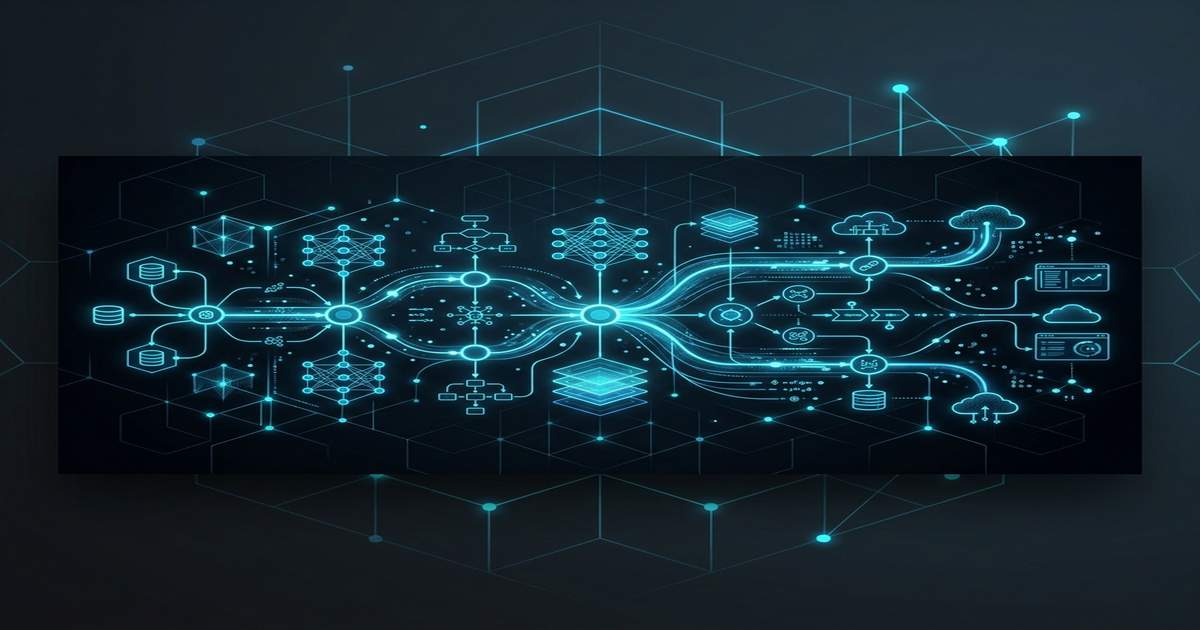
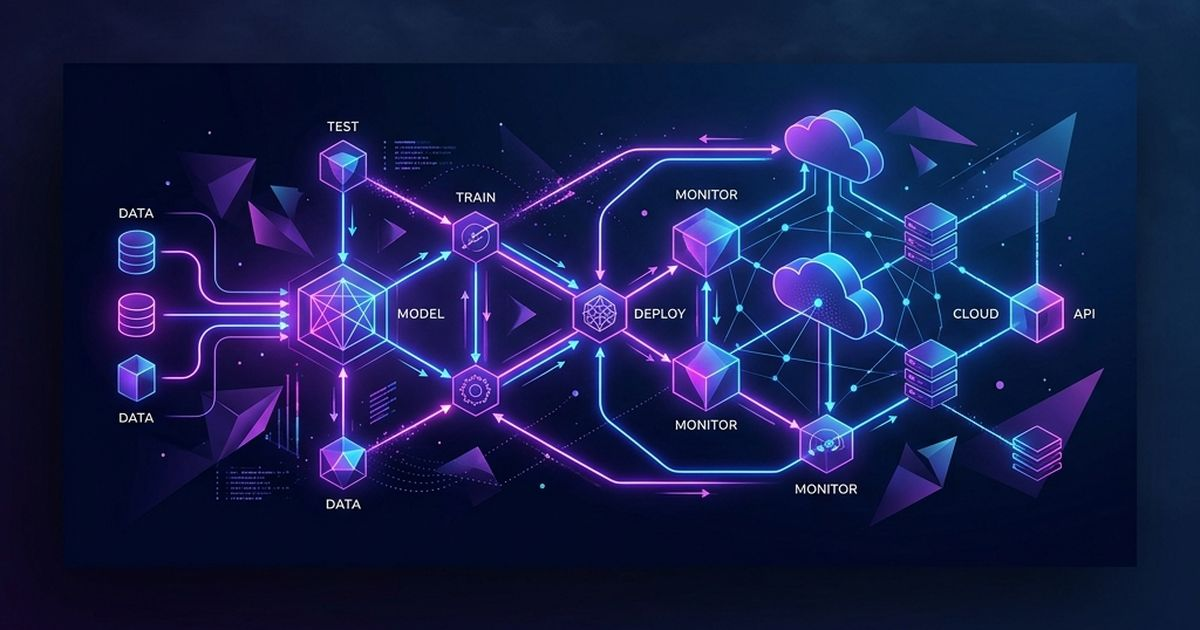
opt: compress thumbnail to JPG and reduce file size below 600KB

diff --git a/index.html b/index.html
@@ -8,7 +8,7 @@
     <!-- Open Graph Meta Tags for WhatsApp/Social Sharing -->
     <meta property="og:title" content="Ashok Sanke | MLOps Engineer">
     <meta property="og:description" content="Building end-to-end MLOps pipelines that take machine learning models from notebooks to production.">
-    <meta property="og:image" content="https://sankeashok.github.io/portfolio_thumbnail.png">
+    <meta property="og:image" content="https://sankeashok.github.io/portfolio_thumbnail.jpg">
     <meta property="og:url" content="https://sankeashok.github.io/">
     <meta property="og:type" content="website">
     
@@ -16,7 +16,7 @@
     <meta name="twitter:card" content="summary_large_image">
     <meta name="twitter:title" content="Ashok Sanke | MLOps Engineer">
     <meta name="twitter:description" content="Building end-to-end MLOps pipelines that take machine learning models from notebooks to production.">
-    <meta name="twitter:image" content="https://sankeashok.github.io/portfolio_thumbnail.png">
+    <meta name="twitter:image" content="https://sankeashok.github.io/portfolio_thumbnail.jpg">
     <!-- Google Fonts -->
     <link rel="preconnect" href="https://fonts.googleapis.com">
     <link rel="preconnect" href="https://fonts.gstatic.com" crossorigin>
